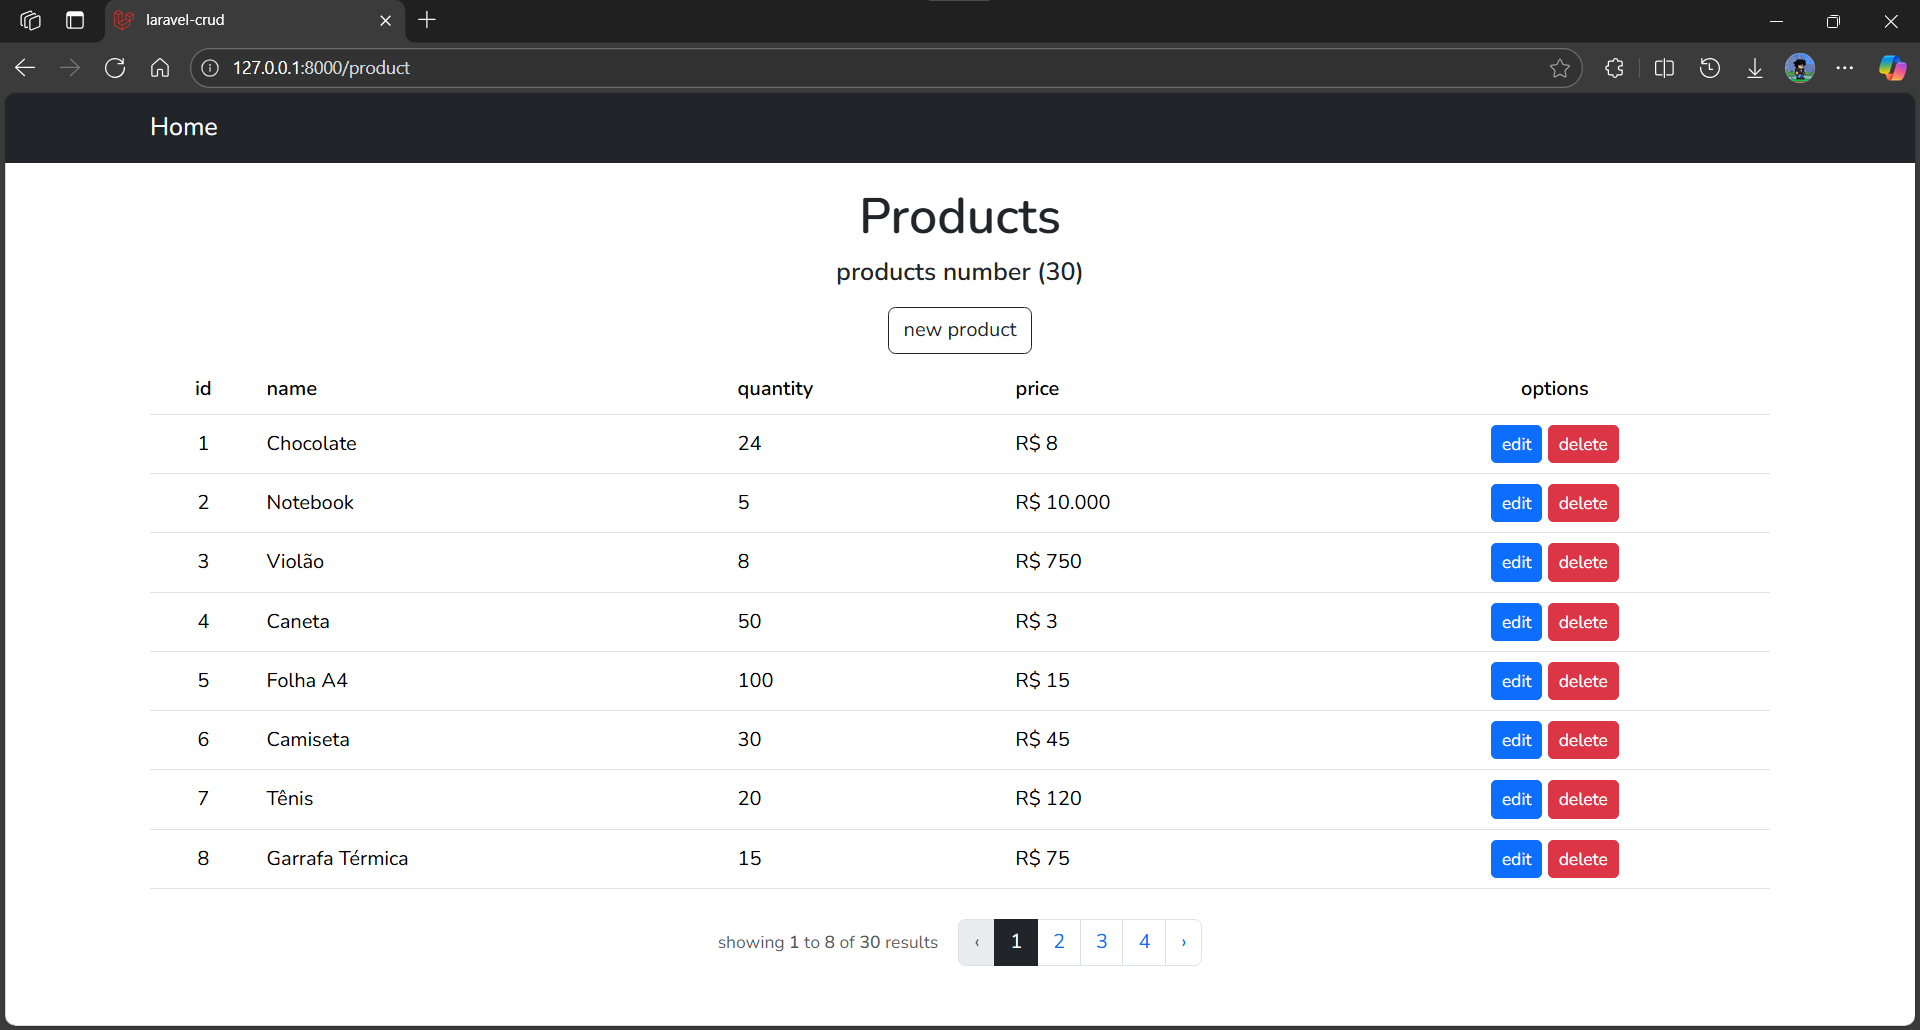
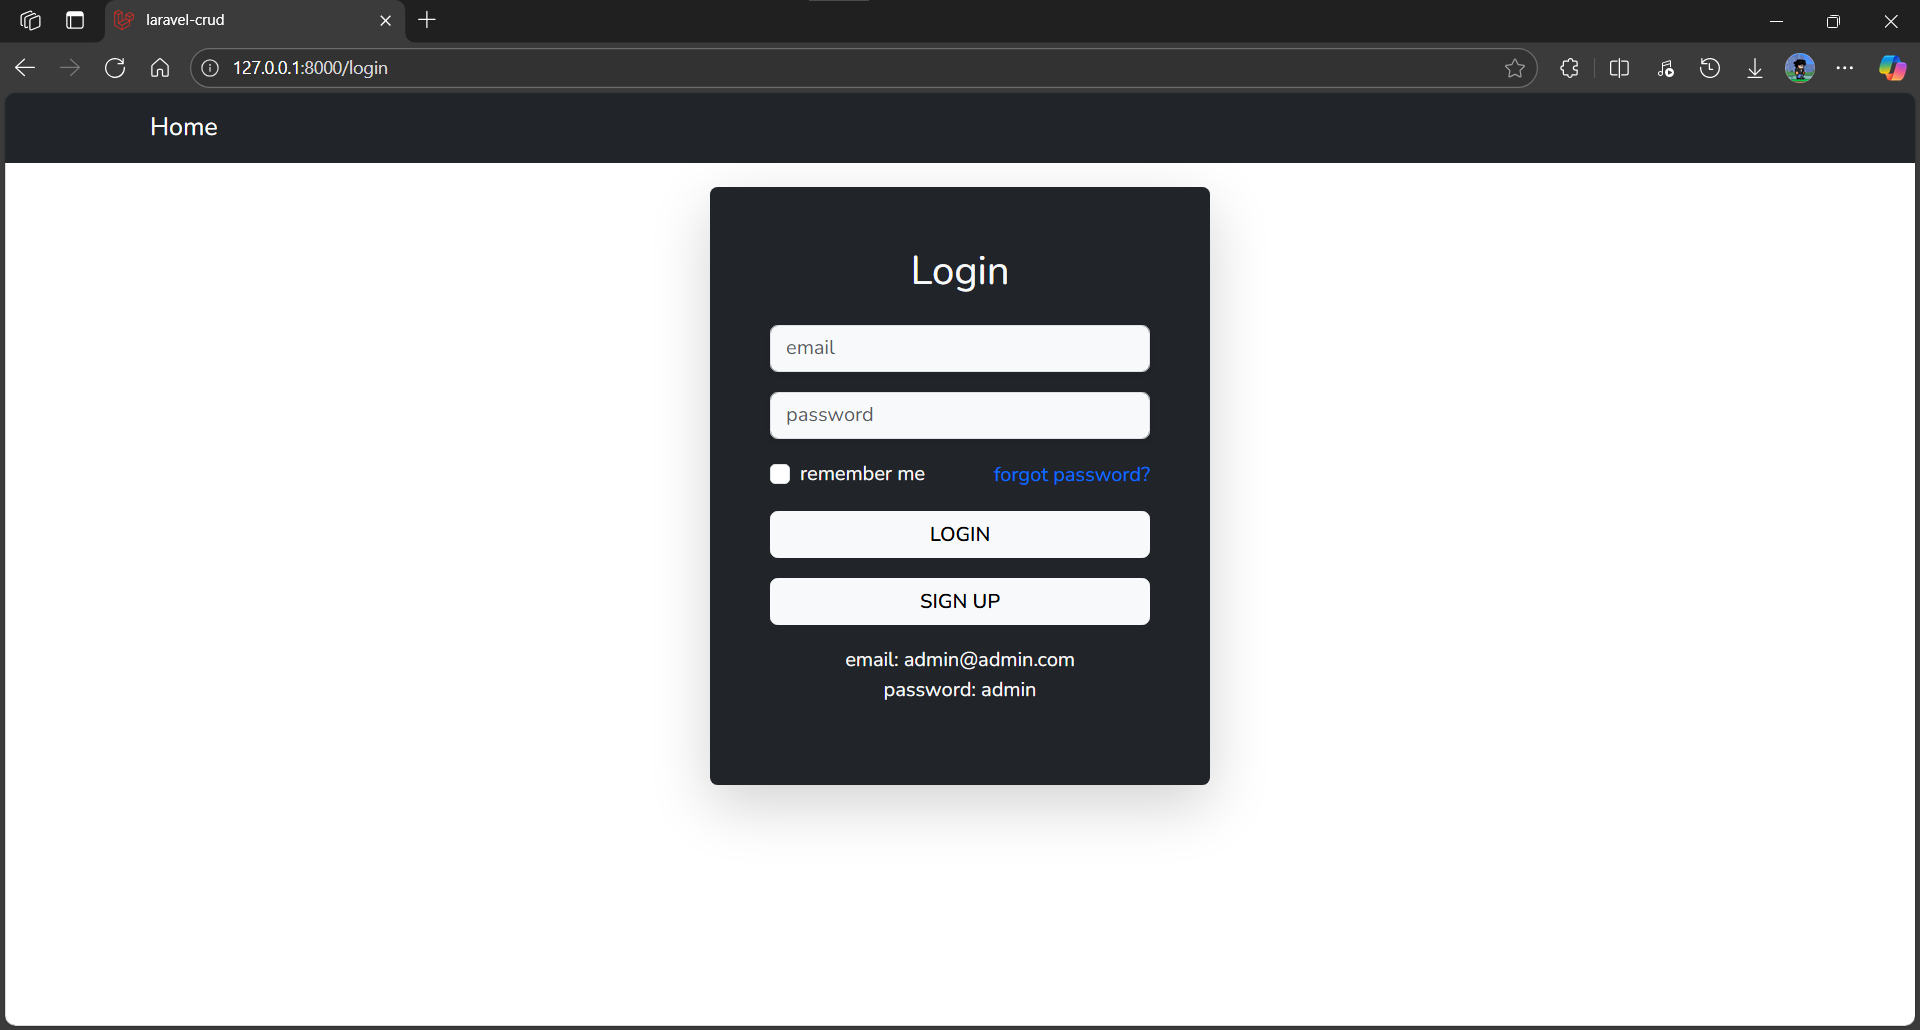
register and login features

diff --git a/resources/views/auth/login.blade.php b/resources/views/auth/login.blade.php
@@ -1,0 +1,51 @@
+<!DOCTYPE html>
+<html lang="en">
+
+<head>
+    <meta charset="UTF-8">
+    <meta name="viewport" content="width=device-width, initial-scale=1.0">
+    <title>laravel-crud</title>
+    <link href="https://fonts.googleapis.com/css?family=Nunito:400,600" rel="stylesheet">
+    <link href="https://cdn.jsdelivr.net/npm/bootstrap@5.3.7/dist/css/bootstrap.min.css" rel="stylesheet" integrity="sha384-LN+7fdVzj6u52u30Kp6M/trliBMCMKTyK833zpbD+pXdCLuTusPj697FH4R/5mcr" crossorigin="anonymous">
+    <link rel="icon" href="https://laravel.com/img/favicon/favicon.ico" type="image/x-icon">
+</head>
+
+<body style="font-family: 'Nunito', sans-serif;" class="bg-white text-dark">
+    <nav class="navbar navbar-dark bg-dark fixed-top">
+        <div class="container">
+            <a class="navbar-brand" href="{{ url('/') }}">Home</a>
+        </div>
+    </nav>
+    <div class="container d-flex justify-content-center"" style=" padding-top: 75px;">
+        <div class="bg-dark p-5 rounded shadow-lg" style="min-width: 350px; max-width: 400px; width: 100%;">
+            <h2 class="text-light text-center mb-4">Login</h2>
+            <form method="post" action="{{ route('login.submit') }}">
+                @csrf
+                <div class="mb-3">
+                    <input name="email" id="email" type="email" class="form-control bg-light shadow-sm" placeholder="email" required />
+                </div>
+                <div class="mb-3">
+                    <input name="password" id="password" type="password" class="form-control bg-light shadow-sm" placeholder="password" required />
+                </div>
+                <div class="d-flex justify-content-between align-items-center mb-3">
+                    <div class="form-check">
+                        <input class="form-check-input" type="checkbox" value="" />
+                        <label class="form-check-label text-light" for="remember">remember me</label>
+                    </div>
+                    <a href="" class="text-decoration-none text-light-50">forgot password?</a>
+                </div>
+                <button type="submit" class="btn btn-light w-100 fw-bold mb-3">LOGIN</button>
+            </form>
+            <a href="{{ route('register') }}"> <button type="submit" class="btn btn-light w-100 fw-bold">SIGN UP</button></a>
+            <div class="text-center mt-3">
+                <p class="text-light mb-0">email: admin@admin.com</p>
+                <p class="text-light">password: admin</p>
+            </div>
+
+        </div>
+    </div>
+    </div>
+    <script src="https://cdn.jsdelivr.net/npm/bootstrap@5.3.7/dist/js/bootstrap.bundle.min.js" integrity="sha384-ndDqU0Gzau9qJ1lfW4pNLlhNTkCfHzAVBReH9diLvGRem5+R9g2FzA8ZGN954O5Q" crossorigin="anonymous"></script>
+</body>
+
+</html>

diff --git a/resources/views/auth/register.blade.php b/resources/views/auth/register.blade.php
@@ -1,0 +1,43 @@
+<!DOCTYPE html>
+<html lang="en">
+
+<head>
+    <meta charset="UTF-8">
+    <meta name="viewport" content="width=device-width, initial-scale=1.0">
+    <title>laravel-crud</title>
+    <link href="https://fonts.googleapis.com/css?family=Nunito:400,600" rel="stylesheet">
+    <link href="https://cdn.jsdelivr.net/npm/bootstrap@5.3.7/dist/css/bootstrap.min.css" rel="stylesheet" integrity="sha384-LN+7fdVzj6u52u30Kp6M/trliBMCMKTyK833zpbD+pXdCLuTusPj697FH4R/5mcr" crossorigin="anonymous">
+    <link rel="icon" href="https://laravel.com/img/favicon/favicon.ico" type="image/x-icon">
+</head>
+
+<body style="font-family: 'Nunito', sans-serif;" class="bg-white text-dark">
+    <nav class="navbar navbar-dark bg-dark fixed-top">
+        <div class="container">
+            <a class="navbar-brand" href="{{ url('/') }}">Home</a>
+        </div>
+    </nav>
+    <div class="container d-flex justify-content-center"" style=" padding-top: 75px;">
+        <div class="bg-dark p-5 rounded shadow-lg" style="min-width: 350px; max-width: 400px; width: 100%;">
+            <h2 class="text-light text-center mb-4">Sign Up</h2>
+            <form method="post" action="{{ route('register.submit') }}">
+                @csrf
+                <div class="mb-3">
+                    <input name="name" id="name" type="text" class="form-control bg-light shadow-sm" placeholder="name" required />
+                </div>
+                <div class="mb-3">
+                    <input name="email" id="email" type="email" class="form-control bg-light shadow-sm" placeholder="email" required />
+                </div>
+                <div class="mb-3">
+                    <input name="password" id="password" type="password" class="form-control bg-light shadow-sm" placeholder="password" required />
+                </div>
+                <div class="d-flex justify-content-between align-items-center mb-3">
+                </div>
+                <button type="submit" class="btn btn-light w-100 fw-bold">SIGN UP</button>
+            </form>
+        </div>
+    </div>
+    </div>
+    <script src="https://cdn.jsdelivr.net/npm/bootstrap@5.3.7/dist/js/bootstrap.bundle.min.js" integrity="sha384-ndDqU0Gzau9qJ1lfW4pNLlhNTkCfHzAVBReH9diLvGRem5+R9g2FzA8ZGN954O5Q" crossorigin="anonymous"></script>
+</body>
+
+</html>

diff --git a/app/Http/Controllers/AuthController.php b/app/Http/Controllers/AuthController.php
@@ -1,0 +1,65 @@
+<?php
+
+namespace App\Http\Controllers;
+
+use Illuminate\Http\Request;
+use Illuminate\Support\Facades\Auth;
+use App\Models\User;
+use Illuminate\Support\Facades\Hash;
+
+class AuthController extends Controller
+{
+    /* Login */
+    public function index()
+    {
+        return view('auth.login');
+    }
+
+    public function login(Request $request)
+    {
+        $credentials = $request->only('email', 'password');
+
+        if (Auth::attempt($credentials)) {
+            $request->session()->regenerate();
+            return redirect()->intended('/product');
+        }
+
+        return back()->withErrors([
+            'email' => 'error',
+        ])->onlyInput('email');
+    }
+
+    /* Logout */
+    public function logout(Request $request)
+    {
+        Auth::logout();
+
+        $request->session()->invalidate();
+        $request->session()->regenerateToken();
+
+        return redirect('/login');
+    }
+
+    /* Register */
+    public function register()
+    {
+        return view('auth.register');
+    }
+
+    public function store(Request $request)
+    {
+        $request->validate([
+            'name' => 'required|string|max:255',
+            'email' => 'required|string|email|max:255|unique:users',
+            'password' => 'required|string|min:5',
+        ]);
+
+        $user = User::create([
+            'name' => $request->name,
+            'email' => $request->email,
+            'password' => Hash::make($request->password),
+        ]);
+
+        return redirect('login');
+    }
+}

diff --git a/routes/web.php b/routes/web.php
@@ -2,9 +2,21 @@
 
 use Illuminate\Support\Facades\Route;
 use App\Http\Controllers\ProductController;
+use App\Http\Controllers\AuthController;
 
 Route::get('/', function () {
     return view('welcome');
 });
 
-Route::resource('product', ProductController::class);
+Route::get('/login', [AuthController::class, 'index'])->name('login');
+Route::post('/login', [AuthController::class, 'login'])->name('login.submit');
+Route::post('/logout', [AuthController::class, 'logout'])->name('logout');
+
+Route::get('/register', [AuthController::class, 'register'])->name('register');
+Route::post('/register', [AuthController::class, 'store'])->name('register.submit');
+
+/* Trocado pelo middleware para exigir login em todas as pagina relacionadas a produtos
+Route::resource('product', ProductController::class); */
+Route::middleware('auth')->group(function () {
+    Route::resource('product', ProductController::class);
+});

diff --git a/resources/views/welcome.blade.php b/resources/views/welcome.blade.php
@@ -38,11 +38,11 @@
                 laravel-crud
             </div>
             <div class="links">
-                <a href="http://127.0.0.1:8000/product">login</a>
+                <a href="{{ route('product.index') }}"">login</a>
             </div>
         </div>
     </div>
-    <script src="https://cdn.jsdelivr.net/npm/bootstrap@5.3.7/dist/js/bootstrap.bundle.min.js" integrity="sha384-ndDqU0Gzau9qJ1lfW4pNLlhNTkCfHzAVBReH9diLvGRem5+R9g2FzA8ZGN954O5Q" crossorigin="anonymous"></script>
+    <script src=" https://cdn.jsdelivr.net/npm/bootstrap@5.3.7/dist/js/bootstrap.bundle.min.js" integrity="sha384-ndDqU0Gzau9qJ1lfW4pNLlhNTkCfHzAVBReH9diLvGRem5+R9g2FzA8ZGN954O5Q" crossorigin="anonymous"></script>
 </body>
 
 </html>

diff --git a/database/migrations/2025_08_04_190157_create_users_table.php b/database/migrations/2025_08_04_190157_create_users_table.php
@@ -1,0 +1,30 @@
+<?php
+
+use Illuminate\Database\Migrations\Migration;
+use Illuminate\Database\Schema\Blueprint;
+use Illuminate\Support\Facades\Schema;
+
+return new class extends Migration
+{
+    /**
+     * Run the migrations.
+     */
+    public function up(): void
+    {
+        Schema::create('users', function (Blueprint $table) {
+            $table->id();
+            $table->string('name');
+            $table->string('email')->unique();
+            $table->string('password');
+            $table->timestamps();
+        });
+    }
+
+    /**
+     * Reverse the migrations.
+     */
+    public function down(): void
+    {
+        Schema::dropIfExists('users');
+    }
+};

diff --git a/resources/views/product-list.blade.php b/resources/views/product-list.blade.php
@@ -14,6 +14,10 @@
     <nav class="navbar navbar-dark bg-dark fixed-top">
         <div class="container">
             <a class="navbar-brand" href="{{ url('/') }}">Home</a>
+            <form action="{{ route('logout') }}" method="POST">
+                @csrf
+                <a class="navbar-brand" href="{{ url('/') }}"> <button type="submit" class="btn btn-danger">Logout</button></a>
+            </form>
         </div>
     </nav>
     <div class="container" style="padding-top: 75px;">

diff --git a/README.md b/README.md
@@ -2,8 +2,9 @@
 
 <div align="center">
 
-<a href="https://github.com/Hirook4/laravel-crud/blob/main/prints/print01.png" target="_blank"><img src="prints/print01.png" width="45%"></a>
-<a href="https://github.com/Hirook4/laravel-crud/blob/main/prints/print02.png" target="_blank"><img src="prints/print02.png" width="45%"></a>
+<a href="https://github.com/Hirook4/laravel-crud/blob/main/prints/print01.png" target="_blank"><img src="prints/print01.png" width="33%"></a>
+<a href="https://github.com/Hirook4/laravel-crud/blob/main/prints/print02.png" target="_blank"><img src="prints/print02.png" width="33%"></a>
+<a href="https://github.com/Hirook4/laravel-crud/blob/main/prints/print03.png" target="_blank"><img src="prints/print02.png" width="33%"></a>
 
 </div>
 
